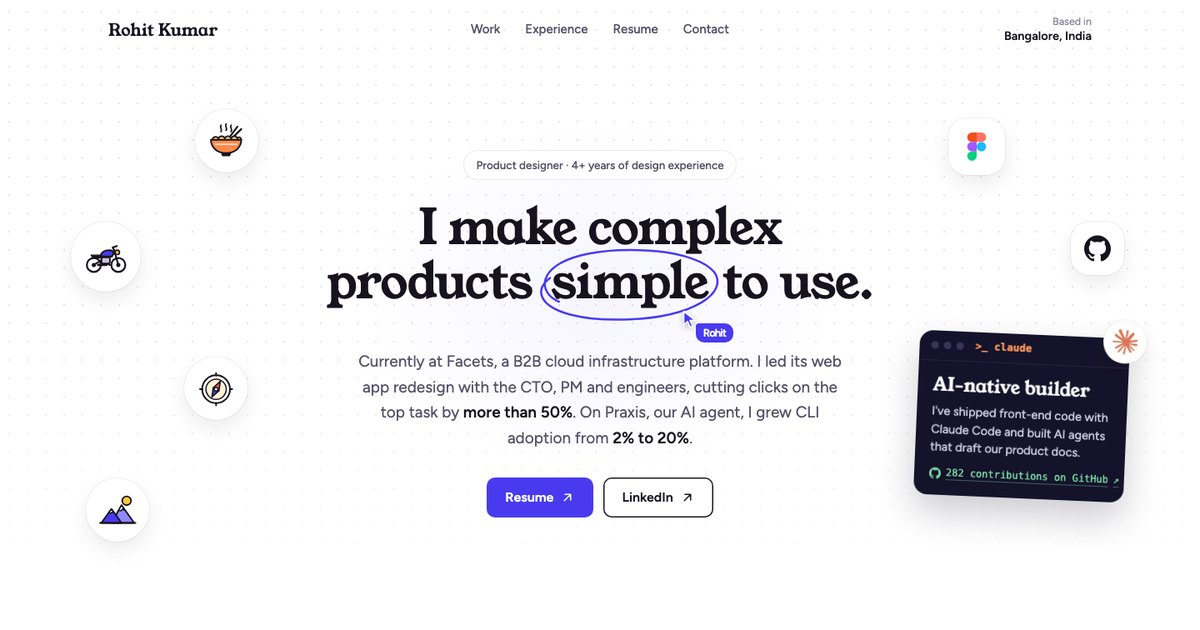
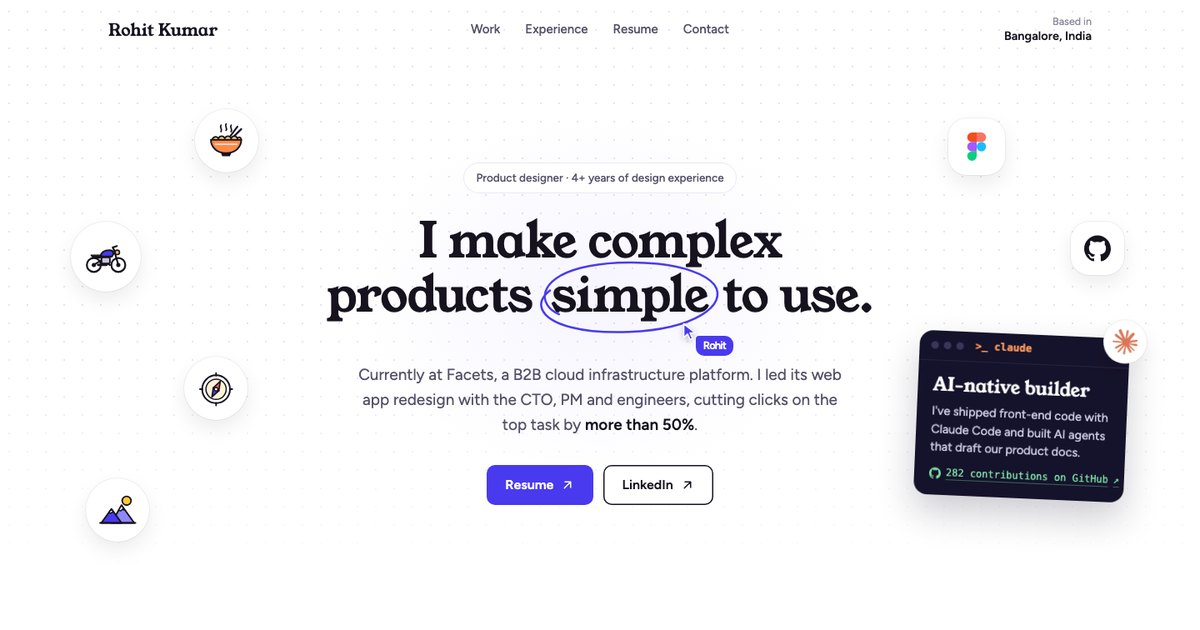
Remove the Praxis CLI line from the homepage hero

Changed region(s): [[0.2467, 0.3317, 0.74, 0.8444], [0.4008, 0.2413, 0.6167, 0.3016]]

diff --git a/index.html b/index.html
@@ -293,7 +293,7 @@ footer b { color: var(--ink); font-weight: 600; }
     <div class="center">
       <p class="pill">Product designer · 4+ years of design experience</p>
       <h1 class="hl">I make complex products <span class="circ">simple<svg class="ring" viewBox="0 0 220 90" preserveAspectRatio="none" aria-hidden="true"><path pathLength="1" d="M34 64 C 10 54, 10 26, 58 14 C 108 2, 186 8, 206 32 C 222 54, 184 80, 112 83 C 62 85, 22 76, 15 58 C 10 44, 30 30, 64 22"/></svg><span class="cur" aria-hidden="true"><svg viewBox="0 0 18 22"><path d="M1.5 1.5 L1.5 18 L6 13.8 L9.2 20.6 L12.2 19.3 L9.1 12.6 L15.2 12.4 Z" fill="#493af0" stroke="#fff" stroke-width="1.6" stroke-linejoin="round"/></svg><b>Rohit</b></span></span> to use.</h1>
-      <p class="desc">Currently at Facets, a B2B cloud infrastructure platform. I led its web app redesign with the CTO, PM and engineers, cutting clicks on the top task by <b>more than 50%</b>. On Praxis, our AI agent, I grew CLI adoption from <b>2% to 20%</b>.</p>
+      <p class="desc">Currently at Facets, a B2B cloud infrastructure platform. I led its web app redesign with the CTO, PM and engineers, cutting clicks on the top task by <b>more than 50%</b>.</p>
       <div class="actions">
         <a class="btn primary" href="https://drive.google.com/file/d/1ugvGzcyhwGY7VeEsyR8gDFDQQBSDiTU5/view?usp=sharing" target="_blank" rel="noopener">Resume <svg viewBox="0 0 24 24" fill="none" stroke="currentColor" stroke-width="2" stroke-linecap="round" stroke-linejoin="round" aria-hidden="true"><path d="M7 17 17 7M8 7h9v9"/></svg></a>
         <a class="btn secondary" href="https://www.linkedin.com/in/rohitux/" target="_blank" rel="noopener">LinkedIn <svg viewBox="0 0 24 24" fill="none" stroke="currentColor" stroke-width="2" stroke-linecap="round" stroke-linejoin="round" aria-hidden="true"><path d="M7 17 17 7M8 7h9v9"/></svg></a>
